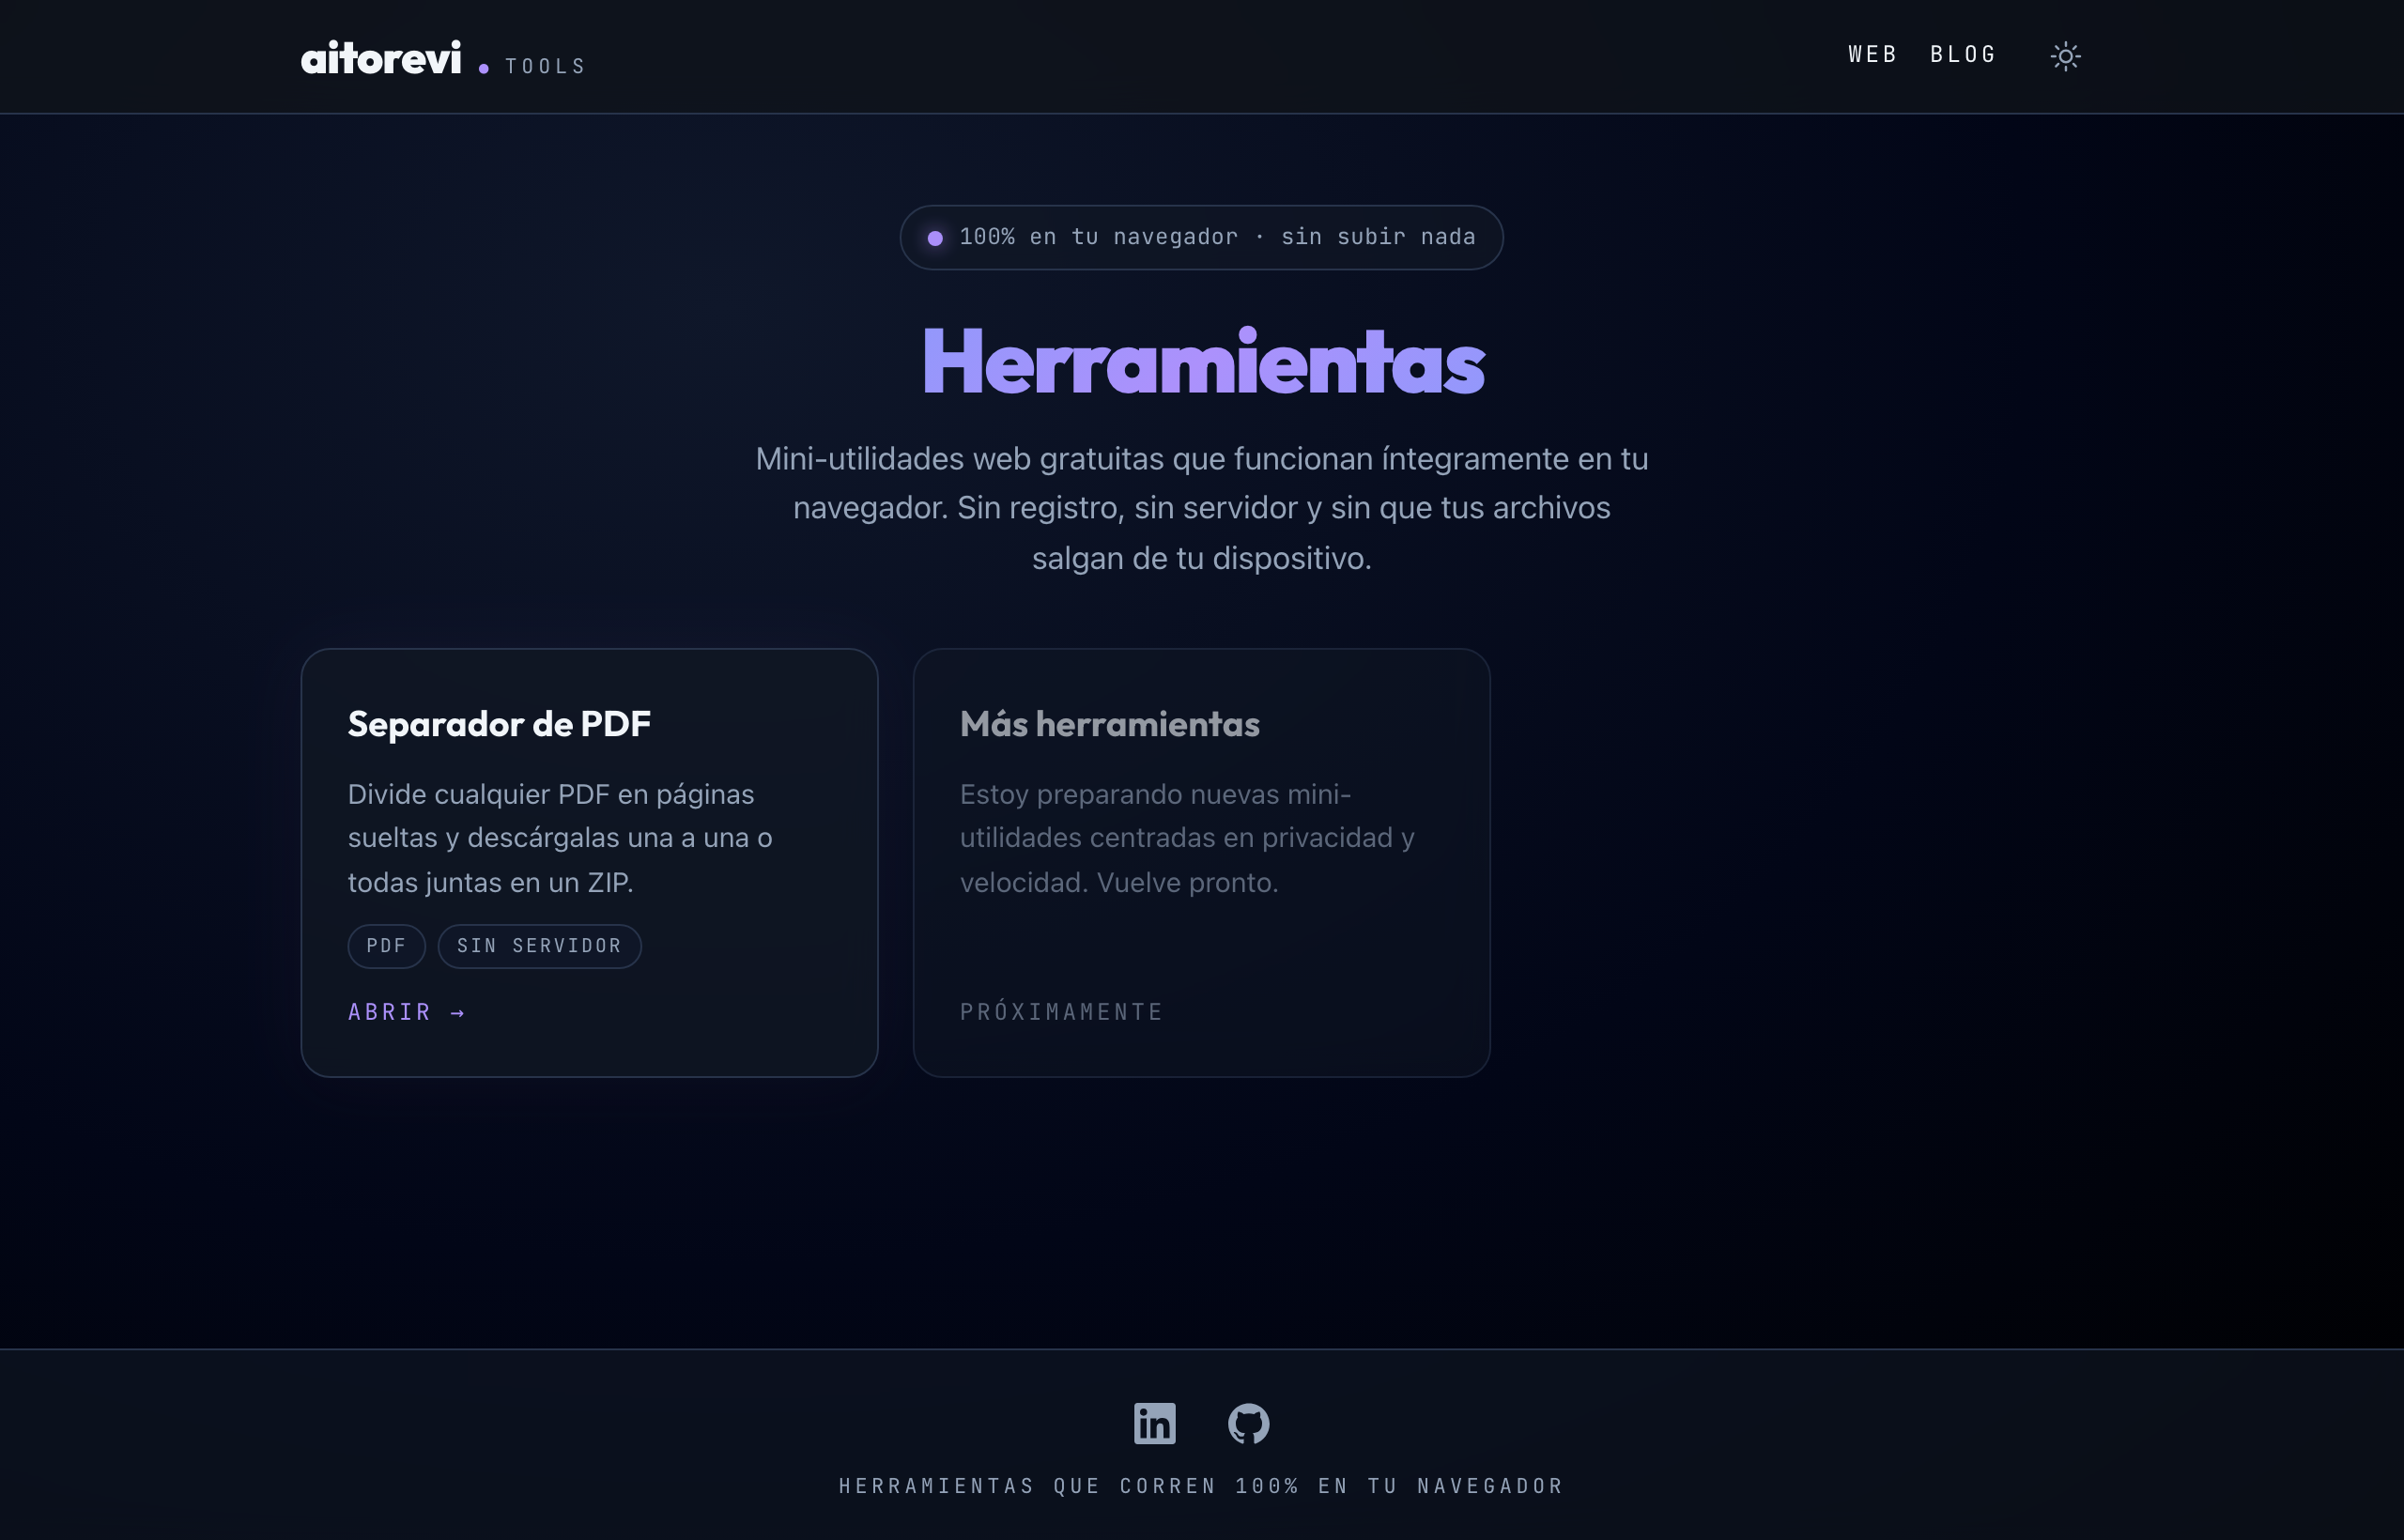
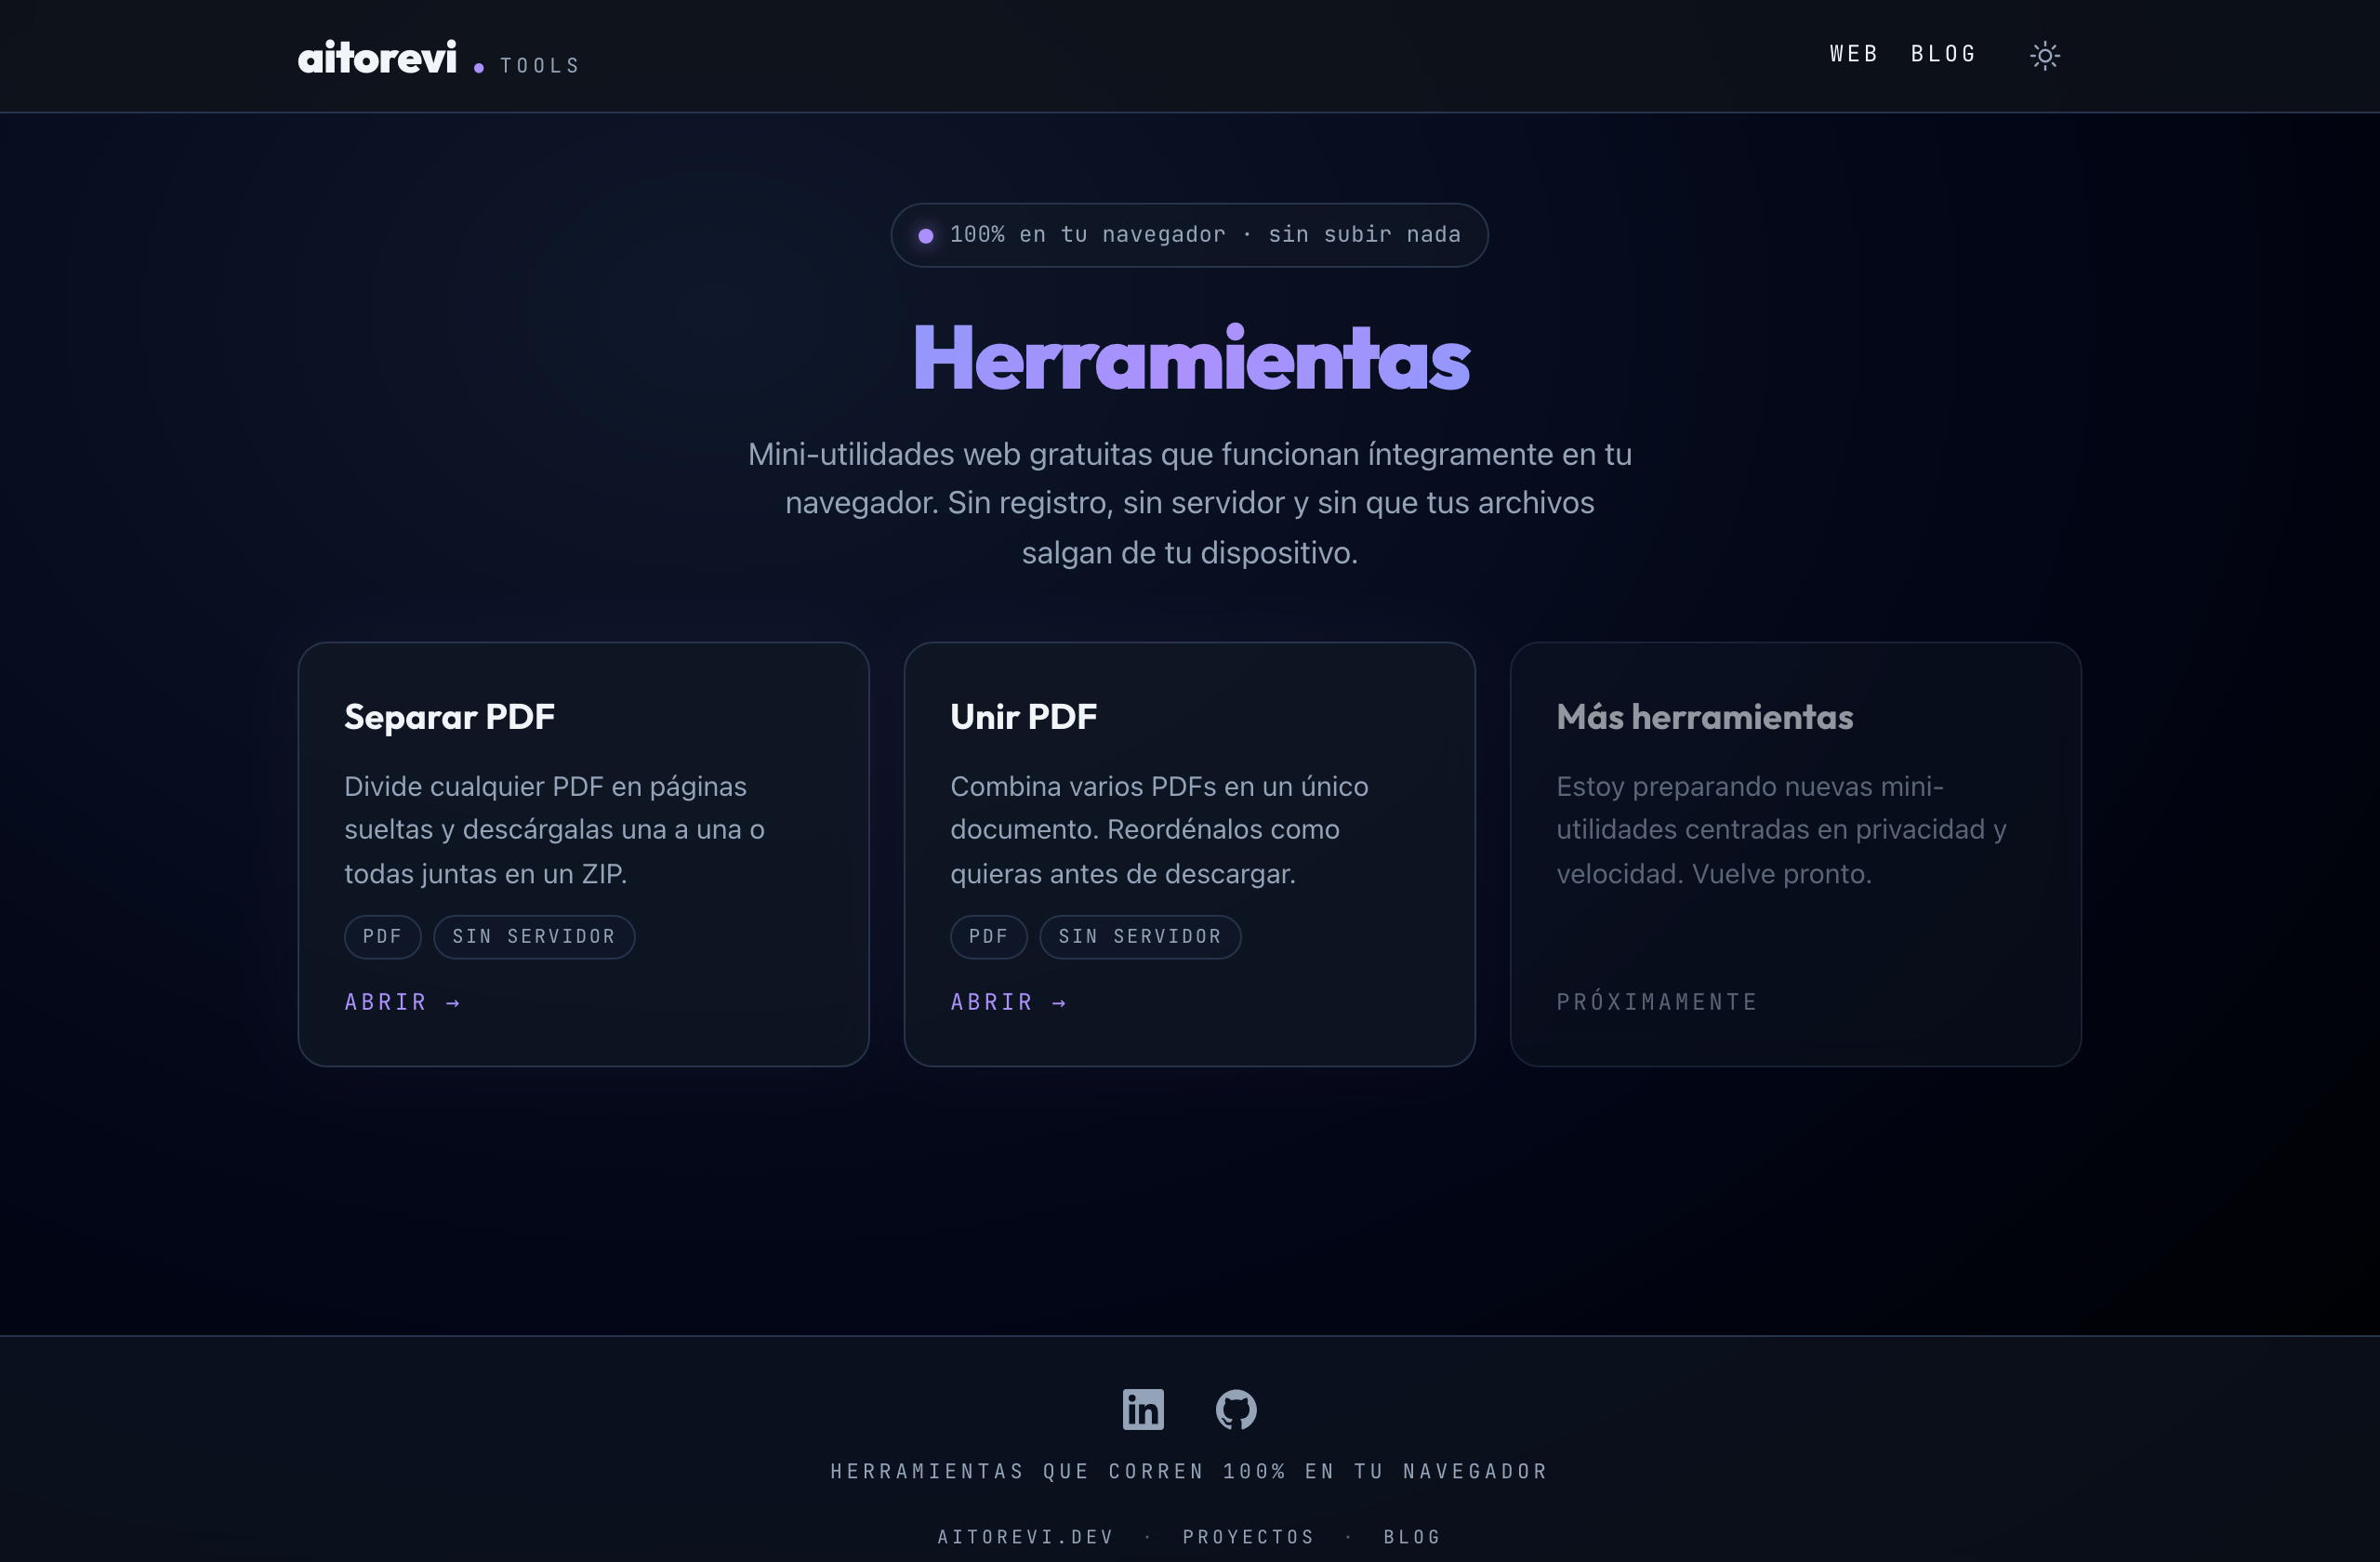
chore(work): actualizar la ficha de tools a las dos herramientas
La ficha /work/tools reflejaba un único 'Separador de PDF'. Ahora:
- Capturas nuevas en oscuro del estado real (hub con 2 tools, Separar PDF y
  Unir PDF); elimina la antigua pdf-separator.png.
- 3 capturas en la sección (hub, separar, unir) con sus alts.
- Copy de intro y descripción mencionan separador + unificador (ES/EN).

diff --git a/src/i18n/messages/portfolio.ts b/src/i18n/messages/portfolio.ts
@@ -71,7 +71,7 @@ export const portfolio = {
     'portfolio.tools.tag': 'Herramientas · Cliente',
     'portfolio.tools.title': 'aitorevi Tools',
     'portfolio.tools.subtitle': 'Hub de mini-herramientas que corren 100% en tu navegador',
-    'portfolio.tools.hero.intro': 'Un subdominio propio donde voy publicando mini-utilidades web que funcionan íntegramente en el navegador: sin servidor, sin registro y sin que tus archivos salgan del dispositivo. La primera es un separador de PDF.',
+    'portfolio.tools.hero.intro': 'Un subdominio propio donde voy publicando mini-utilidades web que funcionan íntegramente en el navegador: sin servidor, sin registro y sin que tus archivos salgan del dispositivo. Ahora mismo incluye un separador y un unificador de PDF.',
     'portfolio.tools.hero.cta.demo': 'Abrir herramientas',
     'portfolio.tools.hero.cta.repo': 'Ver en GitHub',
     'portfolio.tools.problem.title': 'El problema',
@@ -97,8 +97,9 @@ export const portfolio = {
     'portfolio.tools.decisions.hub.heading': 'Hub escalable',
     'portfolio.tools.decisions.hub.text': 'Cada herramienta vive en su carpeta y reutiliza estilos, tema y fuentes compartidos. Añadir una nueva es crear una carpeta y una card en la landing.',
     'portfolio.tools.screenshot.title': 'Capturas',
-    'portfolio.tools.screenshot.hub': 'Landing de tools.aitorevi.dev con la cuadrícula de tarjetas de herramientas y la tarjeta del separador de PDF',
-    'portfolio.tools.screenshot.pdf': 'Separador de PDF con un documento cargado, mostrando las páginas seleccionables y los botones de descarga individual o en ZIP',
+    'portfolio.tools.screenshot.hub': 'Landing de tools.aitorevi.dev con la cuadrícula de tarjetas de herramientas: Separar PDF y Unir PDF',
+    'portfolio.tools.screenshot.separar': 'Herramienta Separar PDF con un documento cargado, mostrando las páginas seleccionables y los botones de descarga individual o en ZIP',
+    'portfolio.tools.screenshot.unir': 'Herramienta Unir PDF con varios documentos en cola, reordenables, listos para combinarse en un único PDF',
     'portfolio.tools.cta.title': '¿Quieres probarla?',
     'portfolio.tools.cta.text': 'La herramienta está en vivo y es gratis. Súbele un PDF y descarga sus páginas sueltas sin que nada salga de tu navegador.',
     'portfolio.tools.cta.demo': 'Abrir tools.aitorevi.dev',
@@ -247,7 +248,7 @@ export const portfolio = {
     'portfolio.tools.tag': 'Tools · Client-side',
     'portfolio.tools.title': 'aitorevi Tools',
     'portfolio.tools.subtitle': 'A hub of mini-tools that run 100% in your browser',
-    'portfolio.tools.hero.intro': 'A dedicated subdomain where I publish web mini-utilities that run entirely in the browser: no server, no sign-up, and your files never leave your device. The first one is a PDF splitter.',
+    'portfolio.tools.hero.intro': 'A dedicated subdomain where I publish web mini-utilities that run entirely in the browser: no server, no sign-up, and your files never leave your device. It currently includes a PDF splitter and a PDF merger.',
     'portfolio.tools.hero.cta.demo': 'Open the tools',
     'portfolio.tools.hero.cta.repo': 'View on GitHub',
     'portfolio.tools.problem.title': 'The problem',
@@ -273,8 +274,9 @@ export const portfolio = {
     'portfolio.tools.decisions.hub.heading': 'A scalable hub',
     'portfolio.tools.decisions.hub.text': 'Each tool lives in its own folder and reuses shared styles, theme and fonts. Adding a new one is creating a folder and a card on the landing.',
     'portfolio.tools.screenshot.title': 'Screenshots',
-    'portfolio.tools.screenshot.hub': 'tools.aitorevi.dev landing with the grid of tool cards and the PDF splitter card',
-    'portfolio.tools.screenshot.pdf': 'PDF splitter with a document loaded, showing the selectable pages and the buttons to download individually or as a ZIP',
+    'portfolio.tools.screenshot.hub': 'tools.aitorevi.dev landing with the grid of tool cards: PDF splitter and PDF merger',
+    'portfolio.tools.screenshot.separar': 'PDF splitter tool with a document loaded, showing the selectable pages and the buttons to download individually or as a ZIP',
+    'portfolio.tools.screenshot.unir': 'PDF merger tool with several documents queued, reorderable, ready to be combined into a single PDF',
     'portfolio.tools.cta.title': 'Want to try it?',
     'portfolio.tools.cta.text': 'The tool is live and free. Drop in a PDF and download its pages individually, with nothing ever leaving your browser.',
     'portfolio.tools.cta.demo': 'Open tools.aitorevi.dev',

diff --git a/src/i18n/messages/home.ts b/src/i18n/messages/home.ts
@@ -99,7 +99,7 @@ export const home = {
     'home.portfolio.tag.saas': 'SaaS',
     'home.portfolio.tag.blog': 'Blog',
     'home.portfolio.tag.experiment': 'Experimento',
-    'home.portfolio.tools.desc': 'Hub de mini-herramientas web que funcionan 100% en el navegador: sin servidor, sin registro y sin que tus archivos salgan del dispositivo. La primera es un separador de PDF (pdf-lib + JSZip vendorizados). Sin build, con tests (Vitest + Playwright) y desplegado en Vercel bajo su propio subdominio.',
+    'home.portfolio.tools.desc': 'Hub de mini-herramientas web que funcionan 100% en el navegador: sin servidor, sin registro y sin que tus archivos salgan del dispositivo. Incluye un separador y un unificador de PDF (pdf-lib + JSZip vendorizados). Sin build, con tests (Vitest + Playwright) y desplegado en Vercel bajo su propio subdominio.',
     'home.portfolio.connectAnalyzer.desc': 'Experimento de craftsmanship: dashboard de ventas en .NET 10 y Next.js. Arquitectura hexagonal con dos puertos outbound (fuente y almacén) y patrón Result/Error: la misma interfaz sirve a un mock, a un SAP S/4HANA real y a Shopify, cambiando solo el adaptador. Desplegado en Cloud Run y Vercel.',
     'home.portfolio.colorprof.desc': 'Web profesional para empresa de pintura en Valencia. Formulario de contacto securizado y diseño enfocado a conversión.',
     'home.portfolio.irph.desc': 'Calculadora financiera que estima el perjuicio del IRPH en hipotecas, conectada a Google Sheets para los cálculos en tiempo real.',
@@ -239,7 +239,7 @@ export const home = {
     'home.portfolio.tag.saas': 'SaaS',
     'home.portfolio.tag.blog': 'Blog',
     'home.portfolio.tag.experiment': 'Experiment',
-    'home.portfolio.tools.desc': 'A hub of web mini-tools that run 100% in the browser: no server, no sign-up, and your files never leave your device. The first one is a PDF splitter (vendored pdf-lib + JSZip). No build, tested (Vitest + Playwright) and deployed on Vercel under its own subdomain.',
+    'home.portfolio.tools.desc': 'A hub of web mini-tools that run 100% in the browser: no server, no sign-up, and your files never leave your device. It includes a PDF splitter and a PDF merger (vendored pdf-lib + JSZip). No build, tested (Vitest + Playwright) and deployed on Vercel under its own subdomain.',
     'home.portfolio.connectAnalyzer.desc': 'A craftsmanship experiment: a sales dashboard in .NET 10 and Next.js. Hexagonal architecture with two outbound ports (source and store) and the Result/Error pattern: the same interface serves a mock, real SAP S/4HANA and Shopify, swapping only the adapter. Deployed on Cloud Run and Vercel.',
     'home.portfolio.colorprof.desc': 'Professional website for a painting company in Valencia. Secured contact form and conversion-focused design.',
     'home.portfolio.irph.desc': 'Financial calculator estimating IRPH mortgage damages, connected to Google Sheets for real-time calculations.',